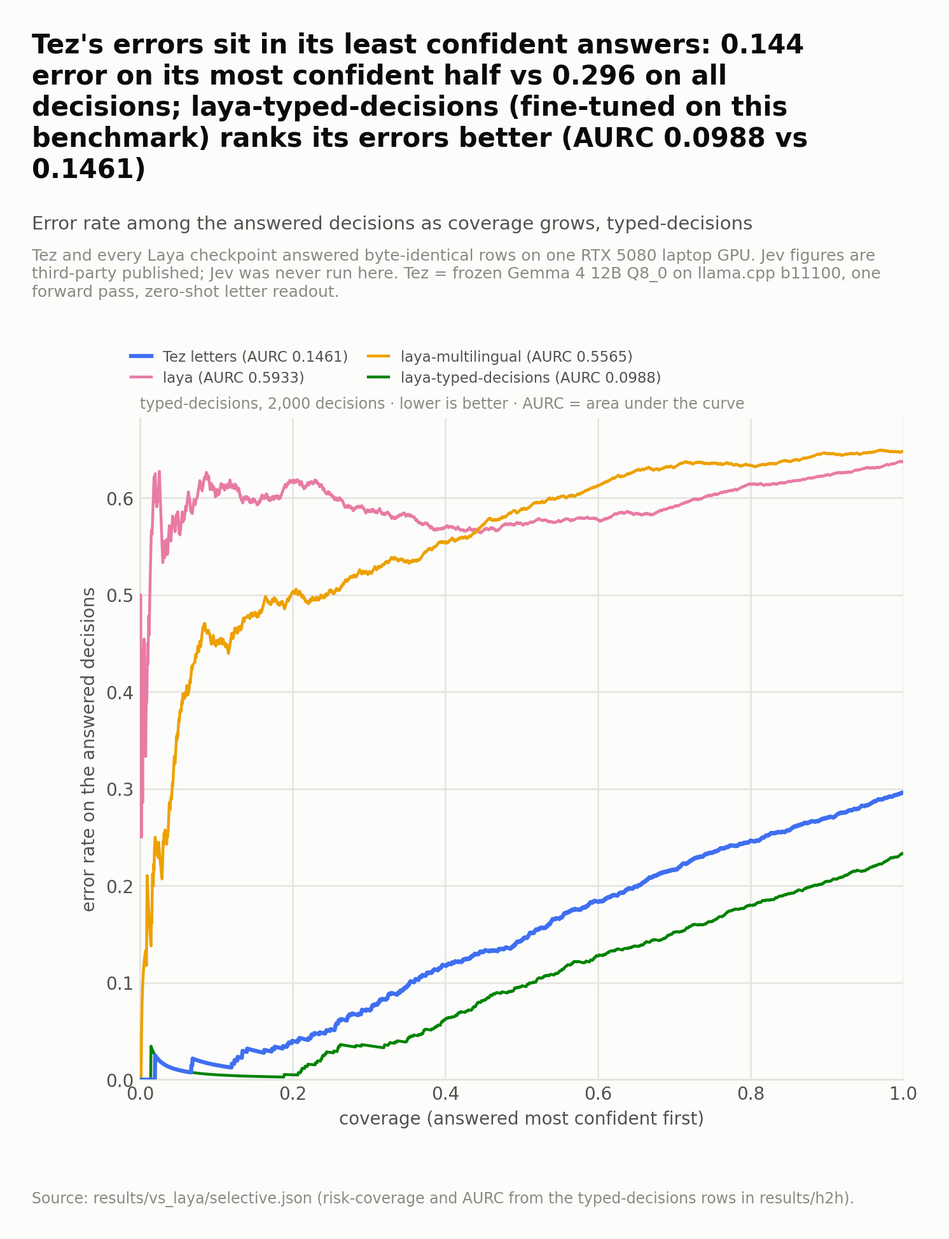
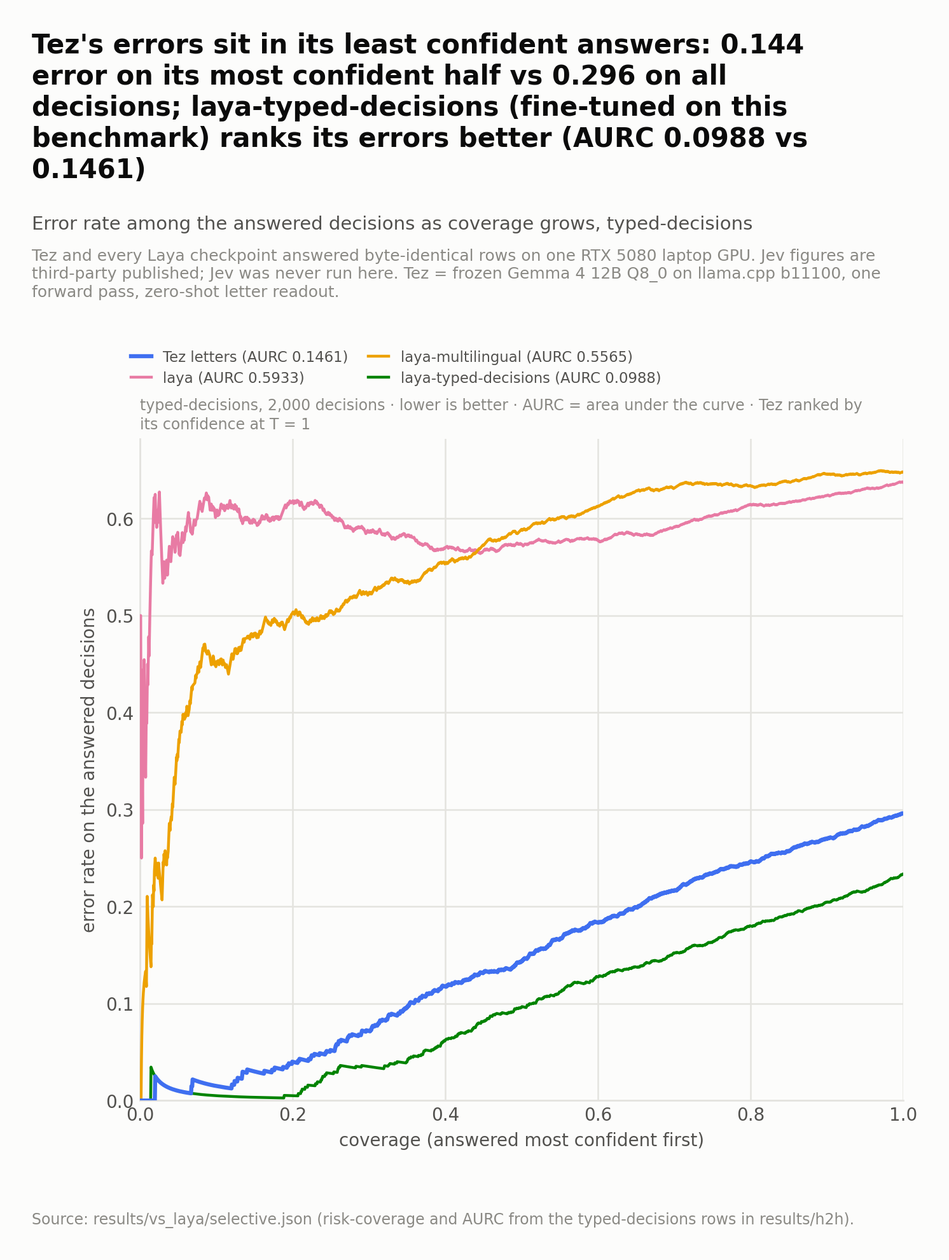
vs figures: draw Tez's default temperature as shipped, T = 1 as before
Tez now reads unfitted letters at its default temperature, so the
calibration panels showed its temperature-1 error as 'as shipped'.

- calibration_vs_jev and calibration_shipped_vs_temperature: Tez at
  T = 1 (0.212, outlined), as shipped with the default fitted without the
  task (0.140, tinted), one temperature per task (0.078, solid). Titles
  re-derived: 0.140 is below Jev's published 0.246; one temperature per
  task brings every model to 0.068-0.103, from 0.140 for Tez and
  0.226-0.323 for Laya ('fixes most miscalibration' no longer holds for
  Tez as shipped).
- reliability: Tez's typed-decisions letters at T = 1 (0.2621), at the
  default fitted without typed-decisions (0.0511) and after one
  temperature (0.0478). The default curve is computed from
  results/h2h/rows_typed_decisions_tez.jsonl with the temperatures in
  results/calibration/default_temperature.json and is dropped if its
  ECE-15 does not match that file's.
- risk-coverage and selective automation say Tez is ranked by its T = 1
  confidence.

pick() reads site/data/benchmarks.json, whose rows now mirror the
relabelled 'mean ECE-15 as shipped (Tez at T = 1)' and the new default
row; both are found by prefix. Laya's and Jev's values are unchanged.

diff --git a/experiments/make_vs_figures.py b/experiments/make_vs_figures.py
@@ -13,7 +13,12 @@ Reads only
   results/h2h/summary.json       experiments/bench_h2h.py per-system, per-task summaries (same rows, same GPU)
   results/h2h/rows_*.jsonl       its per-decision rows (only when results/vs_laya/selective.json is missing)
   results/vs_laya/apps.json, massive51.json, speed_per_call.json, selective.json   (optional)
+  results/calibration/default_temperature.json   (optional) the default temperatures Tez applies to unfitted letters,
+                                 fitted without typed-decisions, for the reliability curve at the default
   README.md, tez/schema.py, docs/REPORT.md section 1   licence, option cap and Jev's documented terms
+
+Tez as shipped reads unfitted letters at its default temperature (BENCHMARKS.md §5c); its temperature-1 figures are
+drawn as the state before that default (outlined bars, hollow markers).
 
 A panel whose data file is missing is not drawn (no placeholder numbers); every skip is printed.
 Writes docs/figures/vs/*.png and docs/figures/vs/panels/*.png at 200 dpi.
@@ -55,6 +60,7 @@ LAYA_RT = "#d95926"                  # laya-routed (Laya's router over laya / la
 JEV = "#7a7975"
 HATCH = "////"                       # hatched Tez = the probe readout (trained on labelled rows)
 SHIPPED_ALPHA = 0.38                 # tinted = as shipped / before the fix; solid = after
+BEFORE_LW = 1.4                      # outlined Tez = temperature 1, before its default temperature
 
 plt.rcParams.update({
     "figure.facecolor": SURFACE, "axes.facecolor": SURFACE, "savefig.facecolor": SURFACE,
@@ -174,7 +180,10 @@ class Data:
         rows = {r["metric"]: r["values"] for r in B["calibration_order_latency"]["rows"]}
         sysc = ("tez", "laya", "laya-multilingual", "laya-typed-decisions", "jev")
         pick = lambda prefix: dict(zip(sysc, next(v for m, v in rows.items() if m.startswith(prefix))))  # noqa: E731
-        self.ece_shipped, self.ece_temp = pick("mean ECE-15 as shipped"), pick("mean ECE-15 after")
+        # "mean ECE-15 as shipped (Tez at T = 1)": Laya and Jev as they ship, Tez before its default temperature;
+        # "mean ECE-15, Tez's default temperature fitted without the task (§5c)": Tez as it ships now
+        self.ece_t1, self.ece_temp = pick("mean ECE-15 as shipped"), pick("mean ECE-15 after")
+        self.ece_shipped = dict(self.ece_t1, tez=pick("mean ECE-15, Tez's default temperature")["tez"])
         self.flip20, self.ms = pick("option-order flip"), {k: rng(v) for k, v in pick("ms per decision").items()}
         self.probe_ms = next(r["ms_probe"] for r in B["pruned"]["rows"] if r["blocks"].startswith("24"))
         vw = {r["variant"]: r for r in B["voice_per_word"]["rows"]}
@@ -206,6 +215,45 @@ class Data:
             if self.sel:
                 self.sel_source = "results/h2h/rows_typed_decisions_*.jsonl (selective.json missing)"
                 print("  computed selective / reliability / risk-coverage from results/h2h typed-decisions rows")
+        self.td_default = self._td_default_temperature() if self.sel else None
+
+    # -------------------------------------------------------------- typed-decisions at Tez's default temperature
+    def _td_default_temperature(self):
+        """Tez's typed-decisions letters read at the default temperature it ships (BENCHMARKS.md §5c), with the
+        temperatures fitted without typed-decisions (leave-one-task-out, the 'rule' setting): one per question type.
+        Reliability bins and ECE-15 from results/h2h/rows_typed_decisions_tez.jsonl; the ECE must match the file's."""
+        rel = "results/calibration/default_temperature.json"
+        d = _json(rel)
+        rows_p = ROOT / "results" / "h2h" / "rows_typed_decisions_tez.jsonl"
+        name = next((n for n in self.sel["reliability"] if canon(n) == "tez"), None)
+        if d is None or not rows_p.exists() or name is None:
+            print(f"  missing  {rel} or {rows_p.relative_to(ROOT).as_posix()}: no default-temperature curve")
+            return None
+        temps = {}
+        for c in d["loto"]["cells"]:
+            if c["task"] == "typed_decisions":
+                if c["type"] in temps:
+                    raise SystemExit(f"{rel}: more than one typed_decisions cell of type {c['type']}")
+                temps[c["type"]] = float(c["T_rule_loto"])
+        conf, corr = [], []
+        for x in rows_p.read_text(encoding="utf-8").splitlines():
+            if x.strip():
+                r = json.loads(x)
+                p = _softmax_t(r["logits"], temps[r["qtype"]])
+                conf.append(float(p.max()))
+                corr.append(float(np.argmax(p) == r["gold"]))
+        conf, corr = np.array(conf), np.array(corr)
+        e = _ece15(conf, corr)
+        want = d["loto"]["per_task"]["typed_decisions"]["rule_loto"]["ece"]
+        if abs(e - want) > 1e-9:
+            print(f"  WARNING tez: ECE-15 at the default temperature {e:.6f} differs from {rel} ({want:.6f}); not drawn")
+            return None
+        print(f"  using    {rel} (typed-decisions at the default temperature, ECE-15 {e:.4f})")
+        self.sel["reliability"][name]["default"] = _bins(conf, corr)
+        if not self.sel.get("ece"):
+            self.sel["ece"] = {}
+        self.sel["ece"].setdefault(name, {})["default"] = e
+        return dict(ece=e, temperatures=temps, source=rel)
 
     # -------------------------------------------------------------- BENCHMARKS.md section 4b task probes
     def _task_probes(self):
@@ -697,31 +745,35 @@ def finding_speed_decision(D):
 def draw_calib_jev(fig, spec, ctx):
     D = ctx.D
     ax = fig.add_subplot(spec)
-    items = [("Jev\n(published)", D.ece_shipped["jev"], dict(key="jev")),
-             ("Tez\nas shipped", D.ece_shipped["tez"], dict(key="tez", alpha=SHIPPED_ALPHA)),
-             ("Tez + one\ntemperature", D.ece_temp["tez"], dict(key="tez")),
-             ("Tez\nprobe", D.td["probe_ece"], dict(key="tez", hatch=HATCH))]
-    for i, (_, v, st) in enumerate(items):
-        bar(ax, i, v, 0.58, **st)
-        vlab(ax, i, v, f3(v), fs=10.5, color=INK if i else INK2, weight="bold" if i else "normal")
+    before = dict(key="tez", color=SURFACE, edgecolor=TEZ, linewidth=BEFORE_LW)
+    items = [("Jev\n(published)", D.ece_shipped["jev"], dict(key="jev"), False),
+             ("Tez\nT = 1\n(before)", D.ece_t1["tez"], before, False),
+             ("Tez\nas shipped", D.ece_shipped["tez"], dict(key="tez", alpha=SHIPPED_ALPHA), True),
+             ("Tez + one\ntemperature", D.ece_temp["tez"], dict(key="tez"), True),
+             ("Tez\nprobe", D.td["probe_ece"], dict(key="tez", hatch=HATCH), True)]
+    for i, (_, v, st, strong) in enumerate(items):
+        bar(ax, i, v, 0.6, **st)
+        vlab(ax, i, v, f3(v), fs=10, color=INK if strong else INK2, weight="bold" if strong else "normal")
     ax.set_xticks(range(len(items)))
-    ax.set_xticklabels([i[0] for i in items], fontsize=9.5)
+    ax.set_xticklabels([i[0] for i in items], fontsize=9)
     ax.set_xlim(-0.55, len(items) - 0.45)
     ax.set_ylim(0, 0.30)
     ax.set_ylabel("ECE-15  (lower is better)", fontsize=10)
     grid(ax)
     strip(ax)
-    head(ax, "Calibration", note="Tez: mean over the head-to-head tasks · probe: typed-decisions only",
-         show_title=ctx.show_title)
+    head(ax, "Calibration", note="Tez: mean over the head-to-head tasks; as shipped = its default temperature, fitted "
+                                 "without the task · probe: typed-decisions only", show_title=ctx.show_title)
     s, t = D.ece_shipped, D.ece_temp
     foot(ax, "Laya on the same rows: " + " / ".join(f3(s[k]) for k in LAYA3) + " as shipped → "
-         + " / ".join(f3(t[k]) for k in LAYA3) + " after one temperature per task.", dy=-34)
+         + " / ".join(f3(t[k]) for k in LAYA3) + " after one temperature per task.", dy=-44)
 
 
 def finding_calib_jev(D):
-    return (f"Tez ships slightly better calibrated than Jev's published ECE ({f3(D.ece_shipped['tez'])} vs "
-            f"{f3(D.ece_shipped['jev'])}); one temperature per task brings it to {f3(D.ece_temp['tez'])}, "
-            f"a probe to {f3(D.td['probe_ece'])}")
+    tez, jev = D.ece_shipped["tez"], D.ece_shipped["jev"]
+    side = "below" if tez < jev else "above" if tez > jev else "level with"
+    return (f"As shipped, with its default temperature, Tez's mean ECE is {f3(tez)}, {side} Jev's published {f3(jev)} "
+            f"({f3(D.ece_t1['tez'])} at T = 1, before the default); one temperature per task brings it to "
+            f"{f3(D.ece_temp['tez'])}, a probe to {f3(D.td['probe_ece'])}")
 
 
 # ---------------------------------------------------------------- "And" facts
@@ -1122,39 +1174,52 @@ def finding_batching(D):
 def draw_calib_all(fig, spec, ctx):
     D = ctx.D
     ax = fig.add_subplot(spec)
-    w = 0.36
-    for i, k in enumerate(KEYS):
+    w, step = 0.34, 0.36
+    # Tez: T = 1 (outlined, before its default temperature), as shipped (tinted), one temperature per task (solid);
+    # each Laya checkpoint: as shipped, one temperature per task. The Tez group is one bar wider.
+    centers = {"tez": 0.0}
+    for j, k in enumerate(LAYA3):
+        centers[k] = 1.3 + j
+    t1 = D.ece_t1["tez"]
+    bar(ax, -step, t1, w, color=SURFACE, edgecolor=TEZ, linewidth=BEFORE_LW)
+    vlab(ax, -step, t1, f3(t1), fs=8.5)
+    for k in KEYS:
+        c = centers[k]
+        xa, xb = (c, c + step) if k == "tez" else (c - step / 2, c + step / 2)
         a, b = D.ece_shipped[k], D.ece_temp[k]
-        bar(ax, i - w / 2 - 0.01, a, w, k, alpha=SHIPPED_ALPHA)
-        bar(ax, i + w / 2 + 0.01, b, w, k)
-        vlab(ax, i - w / 2 - 0.01, a, f3(a), fs=8.5)
-        vlab(ax, i + w / 2 + 0.01, b, f3(b), fs=8.5, color=INK if k == "tez" else INK2,
-             weight="bold" if k == "tez" else "normal")
-    xp = len(KEYS) + 0.05
+        bar(ax, xa, a, w, k, alpha=SHIPPED_ALPHA)
+        bar(ax, xb, b, w, k)
+        vlab(ax, xa, a, f3(a), fs=8.5)
+        vlab(ax, xb, b, f3(b), fs=8.5, color=INK if k == "tez" else INK2, weight="bold" if k == "tez" else "normal")
+    xp = centers[LAYA3[-1]] + 1.05
     bar(ax, xp, D.td["probe_ece"], w, "tez", hatch=HATCH)
     vlab(ax, xp, D.td["probe_ece"], f3(D.td["probe_ece"]), fs=8.5, color=INK, weight="bold")
     jev = D.ece_shipped["jev"]
     ax.axhline(jev, color=INK3, lw=1.3, ls=(0, (4, 3)), zorder=2)
     ax.annotate(f"Jev (published) {f3(jev)}", (xp + 0.3, jev), xytext=(0, 3), textcoords="offset points",
                 ha="right", va="bottom", fontsize=8.5, color=INK3)
-    ax.set_xticks(list(range(len(KEYS))) + [xp])
+    ax.set_xticks([centers[k] for k in KEYS] + [xp])
     ax.set_xticklabels(["Tez", "laya", "laya-\nmultilingual", "laya-typed-\ndecisions", "Tez\nprobe"], fontsize=8.8)
-    ax.set_xlim(-0.6, xp + 0.45)
+    ax.set_xlim(-step - 0.5, xp + 0.45)
     ax.set_ylim(0, 0.40)
     ax.set_ylabel("mean ECE-15 (lower is better)", fontsize=10)
     grid(ax)
     strip(ax)
     handles = [patch(color=INK3, alpha=SHIPPED_ALPHA, label="as shipped"),
                patch(color=INK3, label="one temperature per task"),
+               Patch(facecolor=SURFACE, edgecolor=TEZ, linewidth=BEFORE_LW, label="Tez at T = 1, before its default"),
                patch("tez", "Tez probe", hatch=HATCH)]
-    head(ax, "Calibration", handles, ncol=3, fs_leg=8.8,
-         note="mean over the head-to-head tasks · probe: typed-decisions only", show_title=ctx.show_title)
+    head(ax, "Calibration", handles, ncol=4 if ax_width_in(ax) >= 6.5 else 2, fs_leg=8.8,
+         note="mean over the head-to-head tasks · Tez as shipped: its default temperature, fitted without the task · "
+              "probe: typed-decisions only", show_title=ctx.show_title)
 
 
 def finding_calib_all(D):
-    t = [D.ece_temp[k] for k in LAYA3]
-    return (f"One temperature per task fixes most miscalibration for every model: Tez {f3(D.ece_shipped['tez'])} → "
-            f"{f3(D.ece_temp['tez'])}, Laya {f3(min(t))}–{f3(max(t))} after; Tez's probe reads {f3(D.td['probe_ece'])}")
+    t = [D.ece_temp[k] for k in KEYS]
+    s = [D.ece_shipped[k] for k in LAYA3]
+    return (f"One temperature per task brings every model to {f3(min(t))}–{f3(max(t))}, from "
+            f"{f3(D.ece_shipped['tez'])} for Tez as shipped ({f3(D.ece_t1['tez'])} at T = 1) and "
+            f"{f3(min(s))}–{f3(max(s))} for Laya; Tez's probe reads {f3(D.td['probe_ece'])}")
 
 
 # ---------------------------------------------------------------- typed-decisions ladder (horizontal)
@@ -1483,7 +1548,12 @@ def draw_reliability(fig, spec, ctx):
         rel = s["reliability"][nm]
         c, ls, lab = sel_style(nm)
         is_tez = canon(nm) == "tez"
-        for variant, word in (("shipped", "as shipped"), ("temperature", "one temperature")):
+        # "shipped" in results/vs_laya/selective.json is each system's own readout: Laya's shipped temperatures, and
+        # Tez's letters at T = 1, which is Tez before its default temperature; "default" is Tez as it ships now
+        variants = ((("shipped", "T = 1, before the default"), ("default", "as shipped, default T"),
+                     ("temperature", "one temperature")) if is_tez
+                    else (("shipped", "as shipped"), ("temperature", "one temperature")))
+        for variant, word in variants:
             pts = rel.get(variant) or []
             if not pts:
                 continue
@@ -1495,12 +1565,19 @@ def draw_reliability(fig, spec, ctx):
             if ece is None:
                 ece = binned_ece(pts)
             if is_tez:
-                alpha = SHIPPED_ALPHA + 0.14 if variant == "shipped" else 1.0
-                ax.plot(cf, ac, ls, color=c, alpha=alpha, lw=2.0, zorder=4)
-                ax.scatter(cf, ac, s=16 + 300 * np.sqrt(nn / nn.sum()), color=c, alpha=alpha, edgecolors=SURFACE,
-                           linewidths=1.2, zorder=5)
-                handles.append(Line2D([], [], color=c, alpha=alpha, marker="o", lw=2.0, ms=7,
-                                      label=f"{lab}, {word} ({ece_lab} {fnum(ece)})"))
+                size = 16 + 300 * np.sqrt(nn / nn.sum())
+                label = f"{lab}, {word} ({ece_lab} {fnum(ece)})"
+                if variant == "shipped":                 # T = 1: hollow markers, as the outlined T = 1 bars
+                    ax.plot(cf, ac, ls, color=c, lw=BEFORE_LW, zorder=4)
+                    ax.scatter(cf, ac, s=size, facecolors=SURFACE, edgecolors=c, linewidths=BEFORE_LW, zorder=5)
+                    handles.append(Line2D([], [], color=c, marker="o", mfc=SURFACE, mec=c, mew=BEFORE_LW,
+                                          lw=BEFORE_LW, ms=7, label=label))
+                    continue
+                alpha = SHIPPED_ALPHA + 0.14 if variant == "default" else 1.0
+                ax.plot(cf, ac, ls, color=c, alpha=alpha, lw=2.0, zorder=6 if variant == "default" else 7)
+                ax.scatter(cf, ac, s=size, color=c, alpha=alpha, edgecolors=SURFACE, linewidths=1.2,
+                           zorder=6 if variant == "default" else 7)
+                handles.append(Line2D([], [], color=c, alpha=alpha, marker="o", lw=2.0, ms=7, label=label))
             else:
                 ax.plot(cf, ac, "-", color=c, lw=1.2, marker="o", ms=3.8, mec=SURFACE, mew=0.8, alpha=0.95, zorder=3)
                 handles.append(Line2D([], [], color=c, marker="o", lw=1.2, ms=4,
@@ -1539,7 +1616,8 @@ def draw_risk(fig, spec, ctx):
     ax.xaxis.grid(True, color=GRID, lw=0.9)
     strip(ax, keep=("bottom", "left"))
     head(ax, "Risk–coverage", handles, ncol=2, fs_leg=8.2,
-         note="typed-decisions, 2,000 decisions · lower is better · AURC = area under the curve",
+         note="typed-decisions, 2,000 decisions · lower is better · AURC = area under the curve · Tez ranked by its "
+              "confidence at T = 1",
          show_title=ctx.show_title)
 
 
@@ -1556,7 +1634,12 @@ def finding_reliability(D):
         a, b, lab = binned_ece(rel["shipped"]), binned_ece(rel["temperature"]), "binned ECE"
     else:
         return "Reliability of Tez's letter readout on typed-decisions"
-    return f"Tez's letter readout is over-confident as shipped ({lab} {fnum(a)}); one temperature brings it to {fnum(b)}"
+    if e and "default" in e:
+        return (f"Read at T = 1, Tez's letters are over-confident ({lab} {fnum(a)}); the default temperature Tez now "
+                f"ships, fitted without typed-decisions, brings them to {fnum(e['default'])}, one temperature fitted "
+                f"on the task to {fnum(b)}")
+    return (f"Read at T = 1, Tez's letters are over-confident ({lab} {fnum(a)}); one temperature brings them to "
+            f"{fnum(b)}")
 
 
 def finding_risk(D):
@@ -1615,7 +1698,8 @@ PANELS = {
     "calibration_vs_jev": P(
         draw_calib_jev, "Calibration", finding_calib_jev,
         lambda D: "Expected calibration error with 15 bins (lower is better)",
-        lambda D: "Source: BENCHMARKS.md §1 (mean ECE-15), §4c (probe, layer 26); Jev: third-party published.",
+        lambda D: "Source: BENCHMARKS.md §1 (mean ECE-15), §5c (Tez's default temperature), §4c (probe, layer 26); "
+                  "Jev: third-party published.",
         (5.4, 4.0), head_in=0.5, foot_in=1.15, probe=True),
     "and_facts": P(
         draw_and, "And", lambda D: "Tez runs locally on open weights at no cost; Jev is a hosted, paid API",
@@ -1663,8 +1747,10 @@ PANELS = {
         else "results/vs_laya/speed_per_call.json"),
     "calibration_shipped_vs_temperature": P(
         draw_calib_all, "Calibration", finding_calib_all,
-        lambda D: "Mean ECE-15 over the head-to-head tasks, as shipped and after one temperature per task (lower is better)",
-        lambda D: "Source: BENCHMARKS.md §1 (Calibration, order robustness, latency); probe: §4c.",
+        lambda D: "Mean ECE-15 over the head-to-head tasks, as shipped and after one temperature per task, with Tez also "
+                  "at T = 1, before its default temperature (lower is better)",
+        lambda D: "Source: BENCHMARKS.md §1 (Calibration, order robustness, latency); Tez's default temperature: §5c; "
+                  "probe: §4c.",
         (7.2, 4.2), head_in=0.95, foot_in=0.8, probe=True),
     "typed_decisions_ladder": P(
         draw_td, "typed-decisions", finding_td,
@@ -1700,14 +1786,18 @@ PANELS = {
         (6.8, 4.0), head_in=1.0),
     "selective": P(
         draw_selective, "Selective automation: accuracy vs coverage", finding_selective,
-        lambda D: "Accuracy on the decisions each system answers, most confident first",
+        lambda D: "Accuracy on the decisions each system answers, most confident first (Tez by its confidence at T = 1)",
         lambda D: f"Source: {D.sel_source}" + (" (typed-decisions rows in results/h2h; ties at a cut counted pro rata)."
                                                 if D.sel_source and D.sel_source.endswith(".json") else "."),
         (7.8, 4.6), head_in=0.6, needs=lambda D: None if D.sel else "results/vs_laya/selective.json"),
     "reliability": P(
         draw_reliability, "Reliability", finding_reliability,
-        lambda D: "Reliability diagram on typed-decisions: Tez's letter readout, with Laya's checkpoints for context",
-        lambda D: f"Source: {D.sel_source} (reliability bins and ECE-15 from the typed-decisions rows in results/h2h).",
+        lambda D: ("Reliability diagram on typed-decisions: Tez's letter readout at T = 1, at its default temperature "
+                   "and after one temperature, with Laya's checkpoints for context" if D.td_default else
+                   "Reliability diagram on typed-decisions: Tez's letter readout, with Laya's checkpoints for context"),
+        lambda D: f"Source: {D.sel_source} (reliability bins and ECE-15 from the typed-decisions rows in results/h2h)"
+                  + (f"; default temperature: {D.td_default['source']} (BENCHMARKS.md §5c, fitted without "
+                     "typed-decisions) on results/h2h/rows_typed_decisions_tez.jsonl." if D.td_default else "."),
         (6.0, 5.2), head_in=1.35, needs=lambda D: None if (D.sel and D.sel["reliability"]) else "results/vs_laya/selective.json"),
     "risk_coverage": P(
         draw_risk, "Risk–coverage", finding_risk,
@@ -1950,7 +2040,7 @@ def fig_benchmark(D):
     PANELS["accuracy_vs_jev_compact"] = dict(PANELS["accuracy_vs_jev"],
                                              draw=lambda f, s, c: draw_accuracy(f, s, c, context=False),
                                              title="Against Jev, same public datasets")
-    right = R(Pn(speed, 6.9, 3.0), G(0, 1.75), Pn("accuracy_vs_jev_compact", 6.9, 3.3), G(0, 1.95),
+    right = R(Pn(speed, 6.9, 3.0), G(0, 1.75), Pn("accuracy_vs_jev_compact", 6.9, 3.3), G(0, 2.15),
               Pn("calibration_shipped_vs_temperature", 6.9, 3.0))
     if D.m51:
         left = Pn("every_language", 7.4, 13.0)
@@ -2057,7 +2147,8 @@ def write_readme(D):
          "reference and Laya's three checkpoints as comparators. Every title states the finding; every image carries "
          "its conditions and a source line.", "",
          f"**Conditions.** {CONDITIONS} {TEZ_LETTERS} {TEZ_PROBE}" + (f" {APPS_CPU}" if D.apps else ""), "",
-         "**Colours.** Tez blue (hatched = the probe, trained on labelled rows; tinted = as shipped or before a fix); "
+         "**Colours.** Tez blue (hatched = the probe, trained on labelled rows; tinted = as shipped or before a fix; "
+         "outlined bars and hollow markers = Tez's letters at temperature 1, before its default temperature); "
          "laya magenta; laya-multilingual amber; laya-typed-decisions green; laya-routed burnt orange; Jev (published) "
          "grey. The set was checked with a colour-vision-deficiency validator; amber and magenta are light, so every "
          "mark carries its value.", "",
@@ -2065,8 +2156,10 @@ def write_readme(D):
          "results/vs_laya are printed as the file gives them (up to four decimals). Computed here rather than copied: "
          "the deltas against Jev, the probe's 4.1-4.8x against Jev's published p50 (236/58 and 276/58), the --swa-full "
          "ratios (205/30 and 394/11), the non-English means in \"English vs the rest\" (means of the per-language rows "
-         "of results/h2h/summary.json), the counts of usable languages (> 3x random) and the task counts in the "
-         "titles.", "",
+         "of results/h2h/summary.json), the counts of usable languages (> 3x random), the task counts in the "
+         "titles, and the reliability bins of Tez's typed-decisions letters at its default temperature (from "
+         "results/h2h/rows_typed_decisions_tez.jsonl and the temperatures in results/calibration/"
+         "default_temperature.json; the script stops drawing that curve if its ECE-15 does not match the file's).", "",
          "**Laya's own published numbers** (not our rerun) appear only where labelled: 45 of 51 languages usable with "
          "routing, the typed-decisions teacher ceiling (0.735) and majority class (0.461), and the laya_published "
          "column of results/vs_laya/apps.json (hollow diamonds; outlined bars where our rerun of that checkpoint is "

diff --git a/docs/figures/vs/README.md b/docs/figures/vs/README.md
@@ -6,9 +6,9 @@ Laya (github.com/NandhaKishorM/laya) publishes its comparison with TypeSafe Jev 
 
 **Conditions.** Tez and every Laya checkpoint answered byte-identical rows on one RTX 5080 laptop GPU. Jev figures are third-party published; Jev was never run here. Tez = frozen Gemma 4 12B Q8_0 on llama.cpp b11100, one forward pass, zero-shot letter readout. Tez probe = logistic probe on a frozen Qwen3.5-4B's hidden state, trained on labelled rows. Laya's application-workflow scores come from Laya's own harness on the same laptop's CPU (fp32), as in its published run.
 
-**Colours.** Tez blue (hatched = the probe, trained on labelled rows; tinted = as shipped or before a fix); laya magenta; laya-multilingual amber; laya-typed-decisions green; laya-routed burnt orange; Jev (published) grey. The set was checked with a colour-vision-deficiency validator; amber and magenta are light, so every mark carries its value.
+**Colours.** Tez blue (hatched = the probe, trained on labelled rows; tinted = as shipped or before a fix; outlined bars and hollow markers = Tez's letters at temperature 1, before its default temperature); laya magenta; laya-multilingual amber; laya-typed-decisions green; laya-routed burnt orange; Jev (published) grey. The set was checked with a colour-vision-deficiency validator; amber and magenta are light, so every mark carries its value.
 
-**Numbers.** Values from BENCHMARKS.md and site/data/benchmarks.json keep their three decimals; values from results/vs_laya are printed as the file gives them (up to four decimals). Computed here rather than copied: the deltas against Jev, the probe's 4.1-4.8x against Jev's published p50 (236/58 and 276/58), the --swa-full ratios (205/30 and 394/11), the non-English means in "English vs the rest" (means of the per-language rows of results/h2h/summary.json), the counts of usable languages (> 3x random) and the task counts in the titles.
+**Numbers.** Values from BENCHMARKS.md and site/data/benchmarks.json keep their three decimals; values from results/vs_laya are printed as the file gives them (up to four decimals). Computed here rather than copied: the deltas against Jev, the probe's 4.1-4.8x against Jev's published p50 (236/58 and 276/58), the --swa-full ratios (205/30 and 394/11), the non-English means in "English vs the rest" (means of the per-language rows of results/h2h/summary.json), the counts of usable languages (> 3x random), the task counts in the titles, and the reliability bins of Tez's typed-decisions letters at its default temperature (from results/h2h/rows_typed_decisions_tez.jsonl and the temperatures in results/calibration/default_temperature.json; the script stops drawing that curve if its ECE-15 does not match the file's).
 
 **Laya's own published numbers** (not our rerun) appear only where labelled: 45 of 51 languages usable with routing, the typed-decisions teacher ceiling (0.735) and majority class (0.461), and the laya_published column of results/vs_laya/apps.json (hollow diamonds; outlined bars where our rerun of that checkpoint is not in the file yet).
 
@@ -16,12 +16,12 @@ Laya (github.com/NandhaKishorM/laya) publishes its comparison with TypeSafe Jev 
 
 | Image | Laya's original | What it shows | Panels | Sources |
 |---|---|---|---|---|
-| [`tez_vs_jev.png`](tez_vs_jev.png) | laya_vs_jev.png | Tez against Jev's published figures on one page: accuracy on the four public datasets that have a Jev number (Tez's probe and Laya's three checkpoints for context), language coverage, speed, calibration and the deployment facts. | Accuracy on the public datasets where Jev numbers exist, Language coverage, Speed, Calibration, And | BENCHMARKS.md §1, §3, §4b, §4c; experiments/bench_h2h.py; results/h2h/summary.json; results/vs_laya/massive51.json; README.md; tez/schema.py; Laya's README (published baselines); Jev: third-party published; docs/REPORT.md §1 |
-| [`tez_vs_jev_full.png`](tez_vs_jev_full.png) | laya_vs_jev_full.png | The full comparison: accuracy against Jev, where Tez leads beside where others lead, every workflow and task on identical rows, English vs the rest, speed, calibration, the typed-decisions ladder, languages, and why --swa-full matters (in place of Laya's "Why preload matters"). | Accuracy on the public datasets where Jev numbers exist, Where Tez leads, Where others lead, Every workflow, every checkpoint, English vs the rest, Speed on one RTX 5080 laptop GPU, Calibration, typed-decisions, All 51 languages, Why --swa-full matters | BENCHMARKS.md §1, §3, §4b, §4c; experiments/bench_h2h.py; results/h2h/summary.json; results/vs_laya/apps.json; README.md; results/vs_laya/speed_per_call.json; results/vs_laya/massive51.json; Laya's README (published baselines); Jev: third-party published; docs/REPORT.md §1 |
-| [`tez_benchmark.png`](tez_benchmark.png) | laya_benchmark.png | Which system can read each language (dumbbells), beside speed, accuracy against Jev and calibration. | Every language: which system can read it, Speed on one RTX 5080 laptop GPU, Accuracy on the public datasets where Jev numbers exist, Calibration | BENCHMARKS.md §1, §4b, §4c; results/vs_laya/massive51.json; results/vs_laya/speed_per_call.json; experiments/bench_h2h.py; results/h2h/summary.json; Jev: third-party published |
+| [`tez_vs_jev.png`](tez_vs_jev.png) | laya_vs_jev.png | Tez against Jev's published figures on one page: accuracy on the four public datasets that have a Jev number (Tez's probe and Laya's three checkpoints for context), language coverage, speed, calibration and the deployment facts. | Accuracy on the public datasets where Jev numbers exist, Language coverage, Speed, Calibration, And | BENCHMARKS.md §1, §3, §4b, §4c, §5c; experiments/bench_h2h.py; results/h2h/summary.json; results/vs_laya/massive51.json; README.md; tez/schema.py; Laya's README (published baselines); Jev: third-party published; docs/REPORT.md §1 |
+| [`tez_vs_jev_full.png`](tez_vs_jev_full.png) | laya_vs_jev_full.png | The full comparison: accuracy against Jev, where Tez leads beside where others lead, every workflow and task on identical rows, English vs the rest, speed, calibration, the typed-decisions ladder, languages, and why --swa-full matters (in place of Laya's "Why preload matters"). | Accuracy on the public datasets where Jev numbers exist, Where Tez leads, Where others lead, Every workflow, every checkpoint, English vs the rest, Speed on one RTX 5080 laptop GPU, Calibration, typed-decisions, All 51 languages, Why --swa-full matters | BENCHMARKS.md §1, §3, §4b, §4c, §5c; experiments/bench_h2h.py; results/h2h/summary.json; results/vs_laya/apps.json; README.md; results/vs_laya/speed_per_call.json; results/vs_laya/massive51.json; Laya's README (published baselines); Jev: third-party published; docs/REPORT.md §1 |
+| [`tez_benchmark.png`](tez_benchmark.png) | laya_benchmark.png | Which system can read each language (dumbbells), beside speed, accuracy against Jev and calibration. | Every language: which system can read it, Speed on one RTX 5080 laptop GPU, Accuracy on the public datasets where Jev numbers exist, Calibration | BENCHMARKS.md §1, §4b, §4c, §5c; results/vs_laya/massive51.json; results/vs_laya/speed_per_call.json; experiments/bench_h2h.py; results/h2h/summary.json; Jev: third-party published |
 | [`tez_benchmark_common.png`](tez_benchmark_common.png) | laya_benchmark_common.png | Consolidated benchmark: every workflow and task, English vs the rest, speed, batching (milliseconds per question as more questions share one call) and typed-decisions. | Every workflow, every checkpoint, English vs the rest, Speed on one RTX 5080 laptop GPU, Batching pays off, typed-decisions | BENCHMARKS.md §1, §4b, §4c; results/vs_laya/apps.json; experiments/bench_h2h.py; results/h2h/summary.json; results/vs_laya/speed_per_call.json; Laya's README (published baselines); Jev: third-party published |
 | [`tez_selective.png`](tez_selective.png) | benchmark_comparison.png (bottom-right panel) | Selective automation on typed-decisions: accuracy on the decisions each system answers, most confident first. | Selective automation: accuracy vs coverage | results/vs_laya/selective.json; results/h2h |
-| [`tez_reliability.png`](tez_reliability.png) | reliability_eval_zs.png | Reliability diagram and risk-coverage curve of Tez's letter readout on typed-decisions, with Laya's checkpoints for context. | Reliability, Risk–coverage | results/vs_laya/selective.json; results/h2h |
+| [`tez_reliability.png`](tez_reliability.png) | reliability_eval_zs.png | Reliability diagram and risk-coverage curve of Tez's letter readout on typed-decisions, with Laya's checkpoints for context. | Reliability, Risk–coverage | BENCHMARKS.md §5c; results/vs_laya/selective.json; results/h2h; results/calibration/default_temperature.json; results/h2h/rows_typed_decisions_tez.jsonl |
 
 ## Panels, each also saved alone in `panels/`
 
@@ -31,12 +31,12 @@ Laya (github.com/NandhaKishorM/laya) publishes its comparison with TypeSafe Jev 
 | [`panels/all_51_languages.png`](panels/all_51_languages.png) | Tez clears 3× random in 51 of 51 languages; Laya's router, on the same rows, in 48 | results/vs_laya/massive51.json; Laya published 45 of 51 from Laya's README |
 | [`panels/and_facts.png`](panels/and_facts.png) | Tez runs locally on open weights at no cost; Jev is a hosted, paid API | README.md (licence), tez/schema.py (option cap), BENCHMARKS.md §1 (languages), docs/REPORT.md §1 (Jev's documented terms) |
 | [`panels/batching.png`](panels/batching.png) | Batching cuts Tez's cost per question: 138.8 ms at one question, 93.3 ms at 50 questions per call | results/vs_laya/speed_per_call.json (p50_ms_per_question) |
-| [`panels/calibration_shipped_vs_temperature.png`](panels/calibration_shipped_vs_temperature.png) | One temperature per task fixes most miscalibration for every model: Tez 0.212 → 0.078, Laya 0.068–0.103 after; Tez's probe reads 0.023 | BENCHMARKS.md §1 (Calibration, order robustness, latency); probe: §4c |
-| [`panels/calibration_vs_jev.png`](panels/calibration_vs_jev.png) | Tez ships slightly better calibrated than Jev's published ECE (0.212 vs 0.246); one temperature per task brings it to 0.078, a probe to 0.023 | BENCHMARKS.md §1 (mean ECE-15), §4c (probe, layer 26); Jev: third-party published |
+| [`panels/calibration_shipped_vs_temperature.png`](panels/calibration_shipped_vs_temperature.png) | One temperature per task brings every model to 0.068–0.103, from 0.140 for Tez as shipped (0.212 at T = 1) and 0.226–0.323 for Laya; Tez's probe reads 0.023 | BENCHMARKS.md §1 (Calibration, order robustness, latency); Tez's default temperature: §5c; probe: §4c |
+| [`panels/calibration_vs_jev.png`](panels/calibration_vs_jev.png) | As shipped, with its default temperature, Tez's mean ECE is 0.140, below Jev's published 0.246 (0.212 at T = 1, before the default); one temperature per task brings it to 0.078, a probe to 0.023 | BENCHMARKS.md §1 (mean ECE-15), §5c (Tez's default temperature), §4c (probe, layer 26); Jev: third-party published |
 | [`panels/english_vs_rest.png`](panels/english_vs_rest.png) | Tez holds its accuracy outside English (MASSIVE 0.900 → 0.883) while laya falls from 0.830 to 0.306; on XNLI laya-multilingual stays ahead (0.787 outside English) | results/h2h/summary.json (BENCHMARKS.md §1 Languages, XNLI); the non-English means are computed from its per-language rows |
 | [`panels/every_language.png`](panels/every_language.png) | Tez reads all 51 languages at 0.330–0.930; laya falls to 3× random or below in 28 of 51 | results/vs_laya/massive51.json |
 | [`panels/language_coverage.png`](panels/language_coverage.png) | Tez is usable in 51 of 51 MASSIVE languages; Laya's router 48 of 51 on the same rows | results/vs_laya/massive51.json; Laya published 45 of 51 from Laya's README |
-| [`panels/reliability.png`](panels/reliability.png) | Tez's letter readout is over-confident as shipped (ECE-15 0.2621); one temperature brings it to 0.0478 | results/vs_laya/selective.json (reliability bins and ECE-15 from the typed-decisions rows in results/h2h) |
+| [`panels/reliability.png`](panels/reliability.png) | Read at T = 1, Tez's letters are over-confident (ECE-15 0.2621); the default temperature Tez now ships, fitted without typed-decisions, brings them to 0.0511, one temperature fitted on the task to 0.0478 | results/vs_laya/selective.json (reliability bins and ECE-15 from the typed-decisions rows in results/h2h); default temperature: results/calibration/default_temperature.json (BENCHMARKS.md §5c, fitted without typed-decisions) on results/h2h/rows_typed_decisions_tez.jsonl |
 | [`panels/risk_coverage.png`](panels/risk_coverage.png) | Tez's errors sit in its least confident answers: 0.144 error on its most confident half vs 0.296 on all decisions; laya-typed-decisions (fine-tuned on this benchmark) ranks its errors better (AURC 0.0988 vs 0.1461) | results/vs_laya/selective.json (risk-coverage and AURC from the typed-decisions rows in results/h2h) |
 | [`panels/speed_per_call.png`](panels/speed_per_call.png) | One question per call: laya-multilingual is fastest at 29.5 ms (Tez 138.8 ms); at 50 per call laya-multilingual leads at 141.1 ms (Tez 4665.5 ms) | results/vs_laya/speed_per_call.json; Jev: third-party published (BENCHMARKS.md §1) |
 | [`panels/speed_per_decision.png`](panels/speed_per_decision.png) | Laya answers fastest (23–52 ms); Tez's probe takes 58 ms and its 12B letters 57–250 ms, against Jev's published 236–276 ms | BENCHMARKS.md §1 (ms per decision), §4c (depth-pruned GGUFs: probe on 24 of 32 blocks), §3 (voice) |
